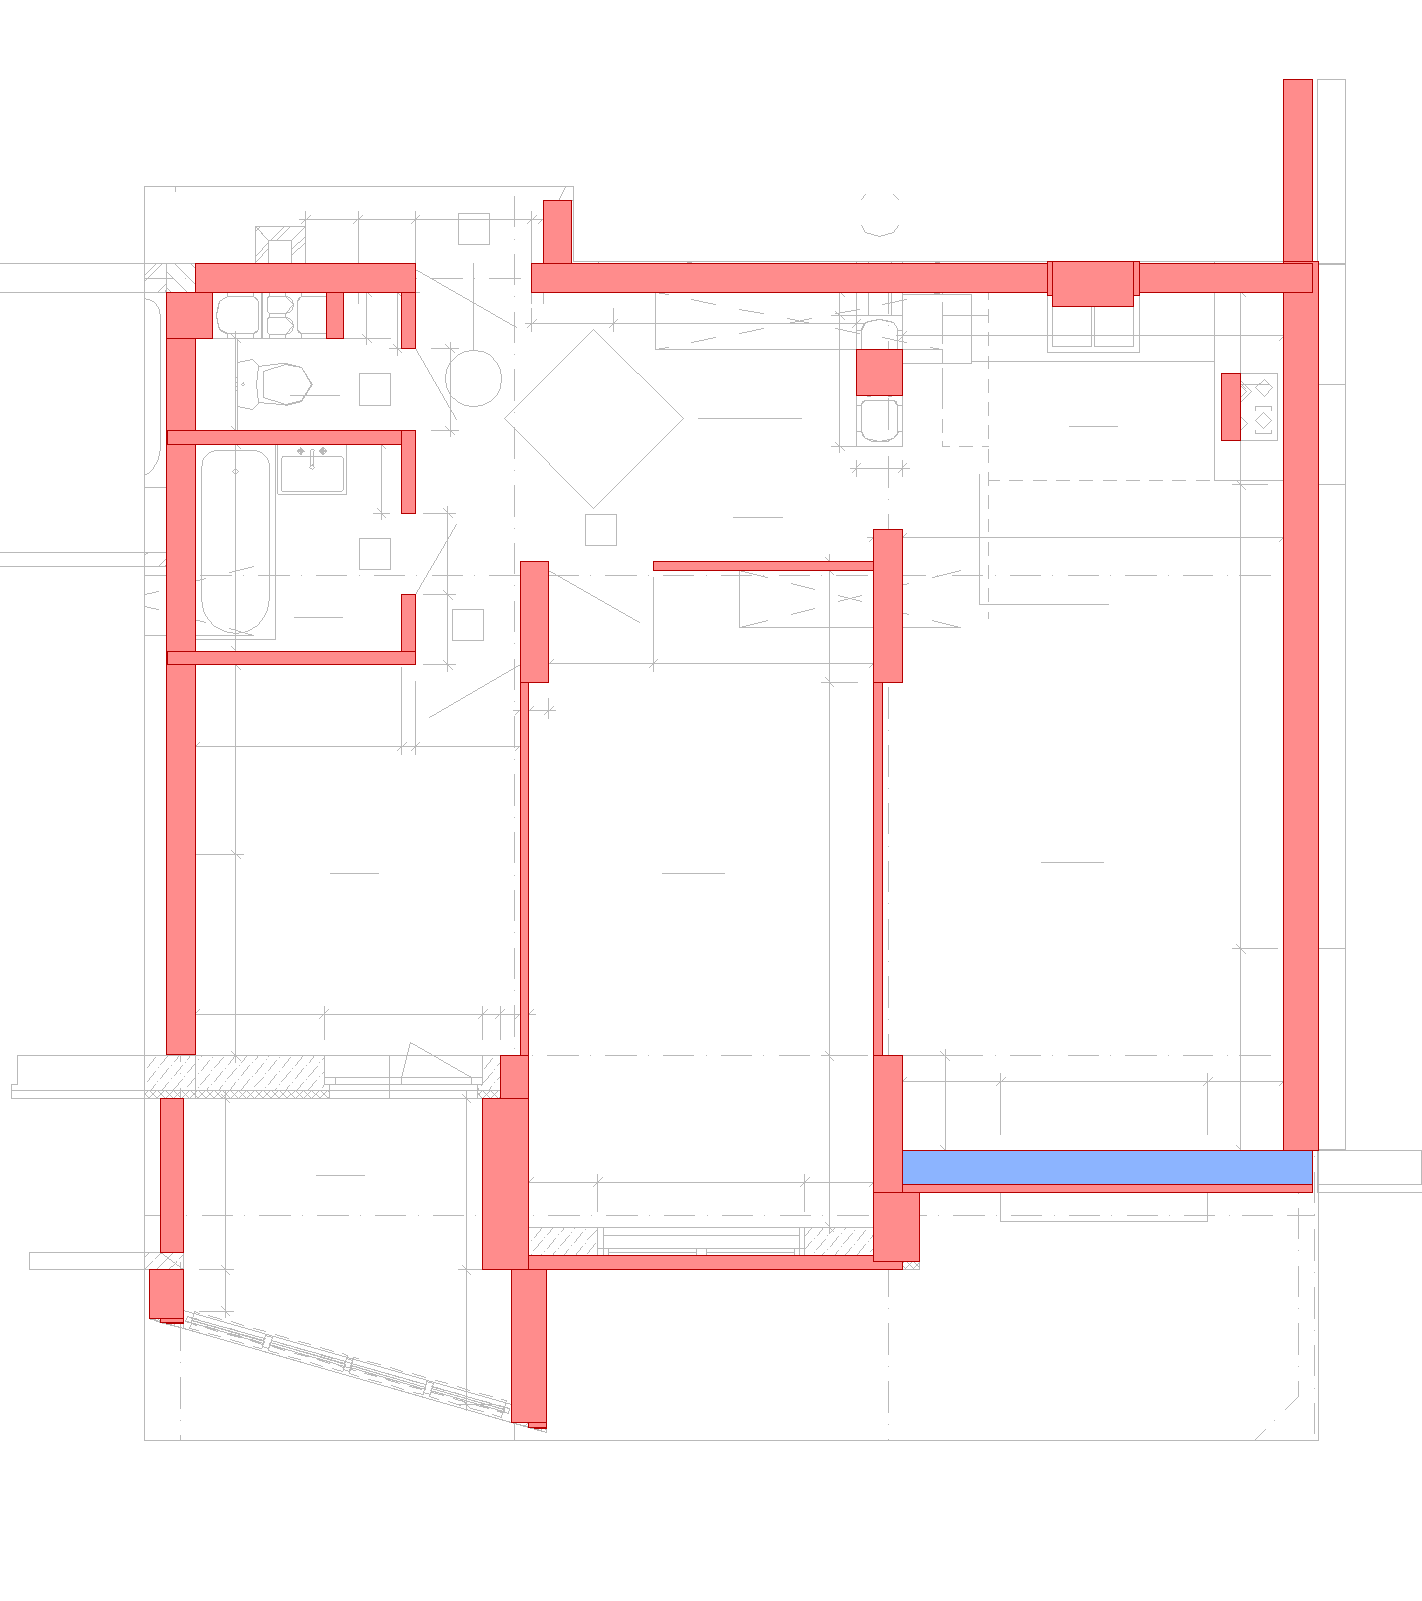
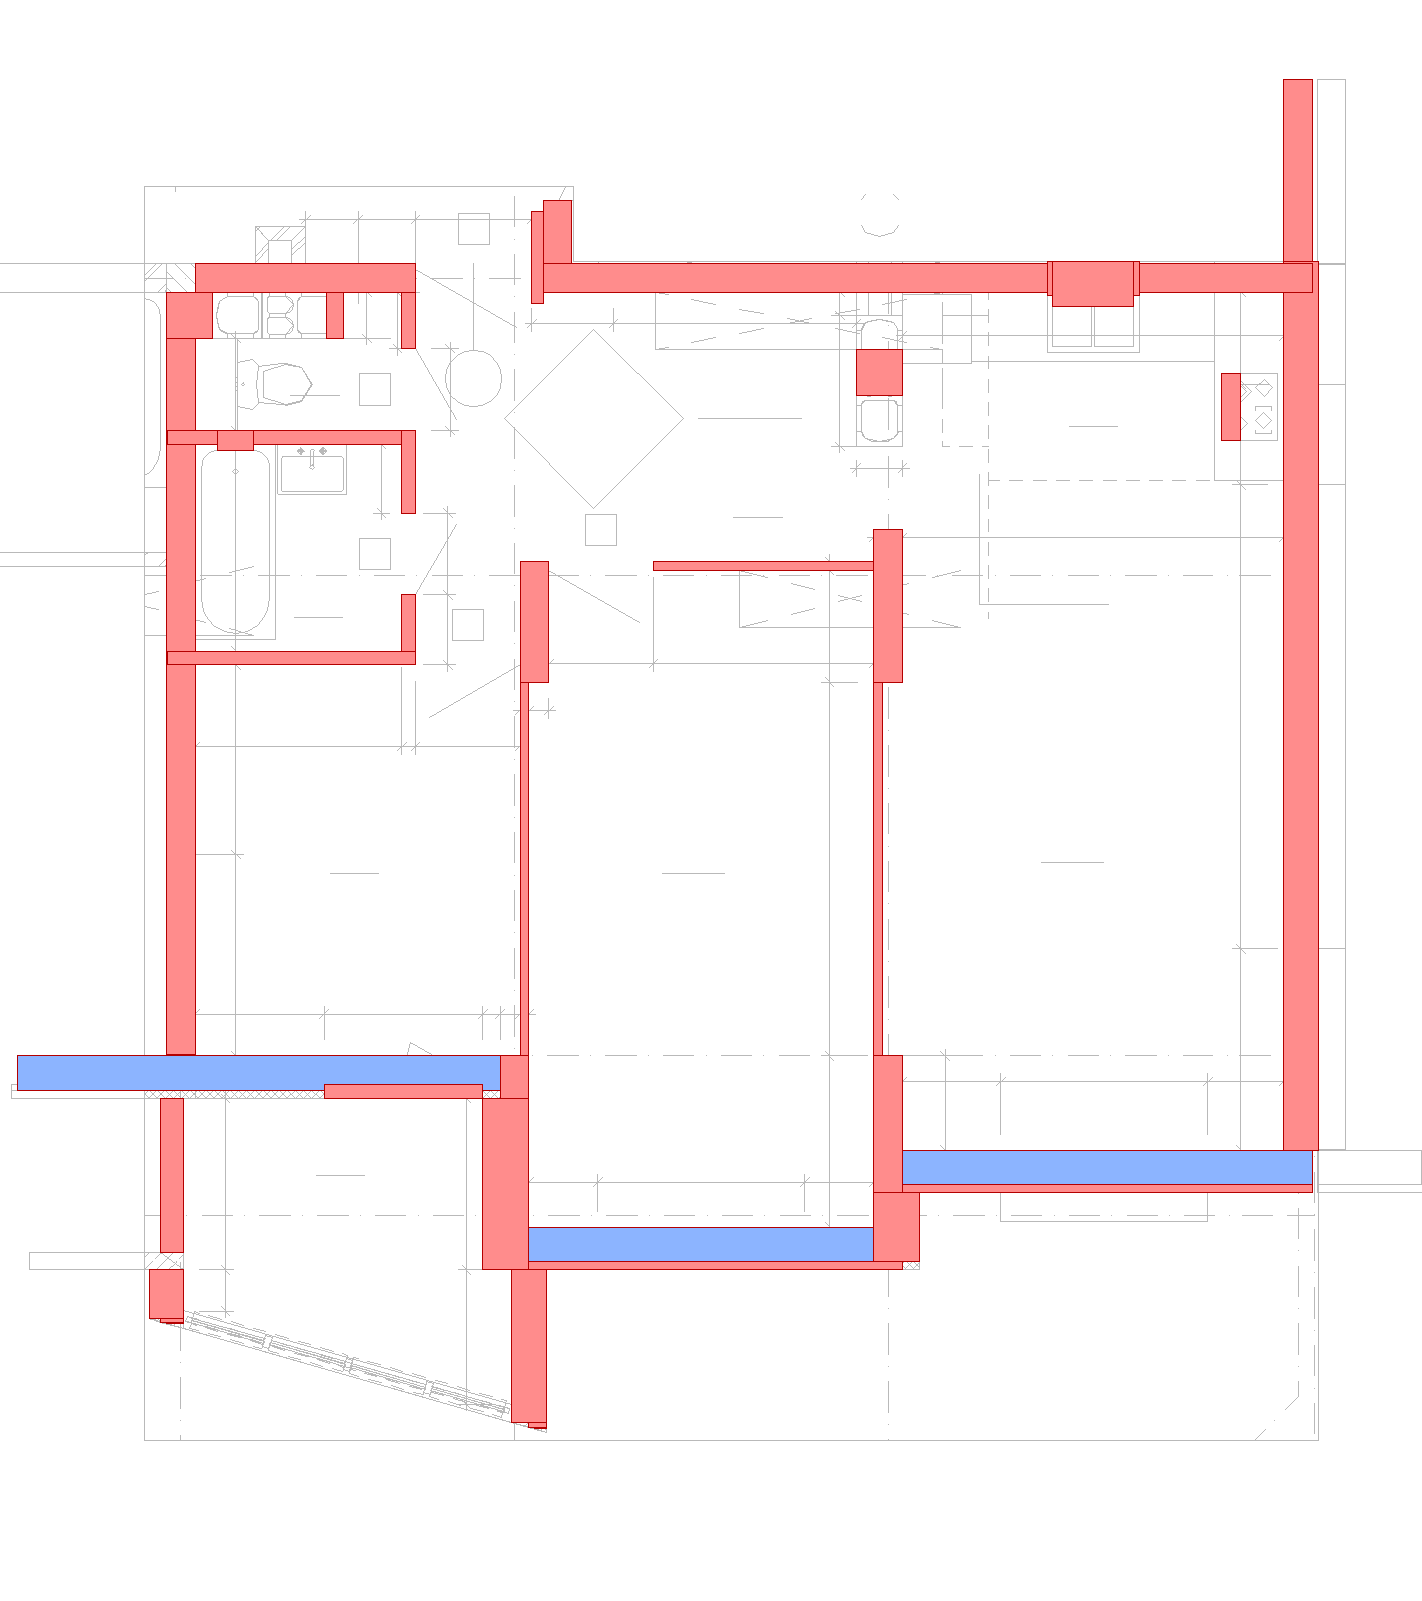
Recover the SE façade into the v0 extraction
All three façade stretches are now captured — under 9,36, under 16,64, under
19,49 — taking the extraction from 36 runs to 41.

Two causes, and the 50° hatch was only the first. The second is worse: MIN_COVER
was 0.35 and the 9,36 stretch scored 0.34. A 4200 mm façade that is mostly window
and балконный блок is mostly not hatched, so the test scored the single most
consequential wall in the flat just under the line and deleted it. Losing a wall
to a threshold by one part in a hundred is a wrong instrument, not a tuning
problem.

So the threshold is now calibrated rather than picked. Sweeping 0.10..0.35 moves
the count only 41 -> 36, which says the cover test is not what separates walls
from non-walls — the thickness-and-overlap pairing is. What a positive threshold
buys is dropping the cover == 0.00 pairs, the true voids. Set at 0.15, with the
reasoning in the tool and in V0_Geometry_Status.md.

The overlay surfaced the next problem in the same pass: runs are not clipped to
the flat. The 9,36 façade run reaches ~1200 mm into the neighbour's flat, because
the drawing shows the adjoining structure and the façade really does continue.
That is now the top remaining item — nothing can be quantified until it is fixed.

Changed region(s): [[0.3713, 0.7495, 0.6188, 0.812], [0.0, 0.6558, 0.3713, 0.6871], [0.3713, 0.1249, 0.4023, 0.1874]]

diff --git a/tools/layout/extract_v0_walls.py b/tools/layout/extract_v0_walls.py
@@ -48,7 +48,14 @@ FACE_CLUSTER_MM = 1.5
 FACE_MIN_MM = 150.0
 GAP_JOIN_MM = 30.0
 BIN_MM = 150.0
-MIN_COVER = 0.35        # low on purpose -- see step 3 above
+# Low on purpose -- see step 3 above. !! Calibrated, not guessed: at 0.35 the SE
+# facade under the 9,36 room scored 0.34 and was deleted, because that 4200 mm
+# stretch is mostly window and балконный блок. Sweeping 0.10..0.35 moves the run
+# count only 41 -> 36, so this threshold is NOT what separates walls from
+# non-walls; the thickness-and-overlap pairing is. What a positive threshold does
+# buy is dropping the cover == 0.00 pairs, which are the true voids -- two real
+# walls with a room between them.
+MIN_COVER = 0.15
 
 # Hatch angles the drawing actually uses. 45/135 fill the internal partitions;
 # 50 fills the external aerated-block envelope, which is why an earlier pass

diff --git a/00_Master/V0_Geometry_Status.md b/00_Master/V0_Geometry_Status.md
@@ -27,12 +27,12 @@ extraction pass produced and, more usefully, what it did not.
    badly** — it will pair one wall's face with another's across a room. The
    first pass produced 95 candidates for a flat with ~25 walls.
 3. **A drawn wall is a SOLID, and the drawing says so by hatching it.** A pair
-   survives only if hatch crosses its centre line. That is the filter that took
-   95 candidates to 36.
+   survives only if hatch crosses its centre line. Together with the pairing
+   constraints that is what takes 95 candidates down to 41.
 4. **The unhatched stretches of a surviving wall are reported as candidate
    OPENINGS** — the same evidence read the other way round.
 
-**Result: 36 runs, thicknesses landing on 75 / 100 / 120 / 150 / 175 / 200 / 250 /
+**Result: 41 runs, thicknesses landing on 75 / 100 / 120 / 150 / 175 / 200 / 250 /
 300 / 400** — the vault's own wall vocabulary, arrived at independently.
 
 **Look at `_Drawings/review/v0_wall_extraction.png` before trusting any of it.**
@@ -53,10 +53,10 @@ complete. **It was caught by rendering the runs over the plan and noticing a
 grey strip with no red on it.**
 
 > [!IMPORTANT]
-> **The lesson is the repo's own: a filter that removes evidence must be looked
-> at, not just tuned.** Two thresholds in this tool are now deliberately
-> permissive for the same reason — `MIN_COVER = 0.35`, because a wall with two
-> windows is mostly not hatched, and that is exactly the wall worth having.
+> **The lesson is the repo's own: a filter that removes evidence has to be
+> LOOKED at, not merely tuned.** Nothing in the run list said a wall was gone —
+> only the overlay did. The same filter then cost a second wall for a different
+> reason; see the threshold section below.
 
 ⚠ **The 50° hatch is RECORDED, not interpreted.** It is tempting to read hatch
 angle as a material key — 50° for aerated block, 45/135 for the rest. **Do not.**
@@ -66,12 +66,36 @@ distinguish concrete from aerated block**, and that the wall model in
 derivable from the drawing. One hatch angle on one drawing is not enough to
 overturn that. It is a lead, and it is written down as one.
 
+## ✅ The façade, fixed — and the threshold that was hiding it
+
+**All three SE façade stretches are now captured** — under 9,36, under 16,64 and
+under 19,49 — bringing the extraction to **41 runs**.
+
+Two separate causes, and only the first was the one I first blamed:
+
+1. **The 50° hatch**, above. That recovered the 19,49 stretch.
+2. **⚠ `MIN_COVER` was 0.35, and the 9,36 stretch scored 0.34.** A 4200 mm
+   façade that is mostly window and балконный блок is mostly *not* hatched, so
+   the cover test scored the most important wall in the flat just below the line
+   and deleted it. **Losing a wall to a threshold by one part in a hundred is not
+   a tuning problem, it is a wrong instrument.**
+
+**So the threshold was calibrated instead of guessed.** Sweeping it from 0.10 to
+0.35 moves the run count only **41 → 36**. → **The cover test is NOT what
+separates walls from non-walls** — the thickness-and-overlap pairing is. What a
+*positive* threshold buys is dropping the `cover == 0.00` pairs, which are the
+true voids: two real walls with a room between them. It is set at **0.15**, and
+it now has a reason rather than a value.
+
 ## ⚠ What is still MISSING — read this before using the output
 
-- **The façade is only partly captured.** The run under the 19,49 room is there;
-  **the stretches under the 9,36 and 16,64 rooms are not**, or are broken into
-  fragments. The façade is the least complete wall in the extraction and the
-  most consequential one.
+- **⚠ Runs are not clipped to the flat.** The façade run under the 9,36 room
+  starts at x ≈ 1631 and the flat's left party wall is at x ≈ 2830 — **so it
+  extends about 1200 mm into the NEIGHBOUR'S flat**, because the drawing shows
+  the adjoining structure and the façade genuinely continues. Visible in the
+  overlay as blue crossing the left boundary. **Nothing may be quantified until
+  runs are clipped to the flat envelope**, and the envelope has not been
+  established.
 - **The лоджия's angled glazing is absent entirely.** The tool handles
   axis-aligned faces only, and that wall is diagonal.
 - **Some runs are certainly composites.** The longest is 9,309 mm on one pair of
@@ -102,12 +126,16 @@ still has to be chosen.
 
 ## The order of the remaining work
 
-1. **Finish the façade**, including the лоджия's diagonal. It is the biggest hole.
-2. **Split the composite runs** at their junctions.
-3. **Name the walls** against `wall_blocks.csv`, and bind `wall_materials.json`.
-4. **Build the corner ledger**, then run `check_wall_junctions.py` and
+1. **Establish the flat envelope and CLIP every run to it.** Until that is done
+   the extraction includes wall that belongs to the neighbour, and no length or
+   quantity taken from it means anything. This is now the biggest hole.
+2. **Add the лоджия's diagonal glazing**, the one wall the axis-aligned method
+   cannot see at all.
+3. **Split the composite runs** at their junctions.
+4. **Name the walls** against `wall_blocks.csv`, and bind `wall_materials.json`.
+5. **Build the corner ledger**, then run `check_wall_junctions.py` and
    `build_wall_corners.py` until both pass.
-5. Only then promote out of `DRAFT`, and only then re-open the v0-against-v1
+6. Only then promote out of `DRAFT`, and only then re-open the v0-against-v1
    comparison that `Layout_Option_Review.md` withdrew.
 
 ⚠ **Validate by CHAIN CLOSURE, never against a printed area.** v0's computed
